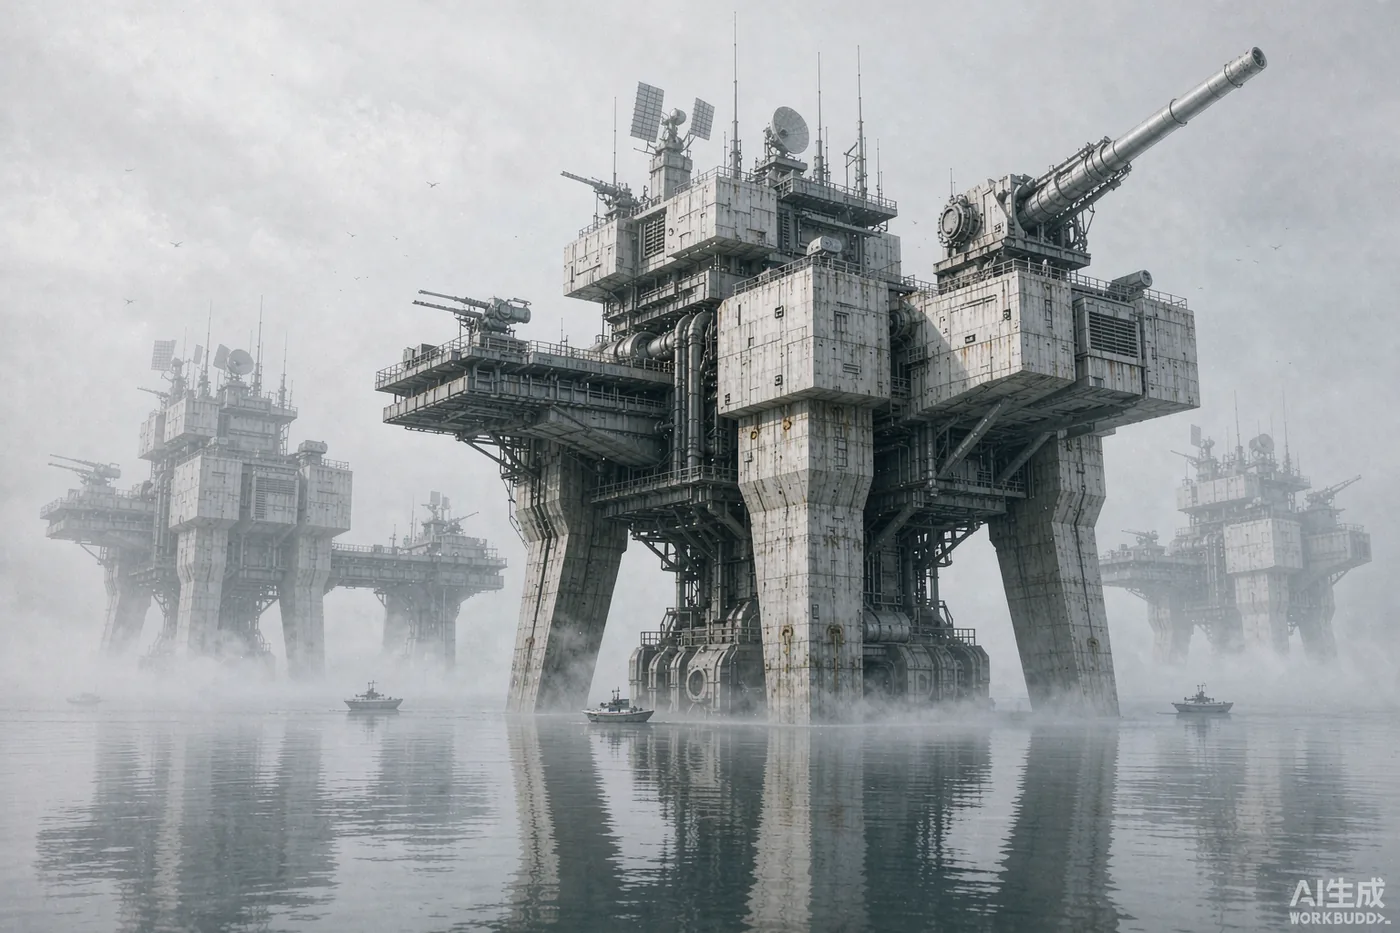
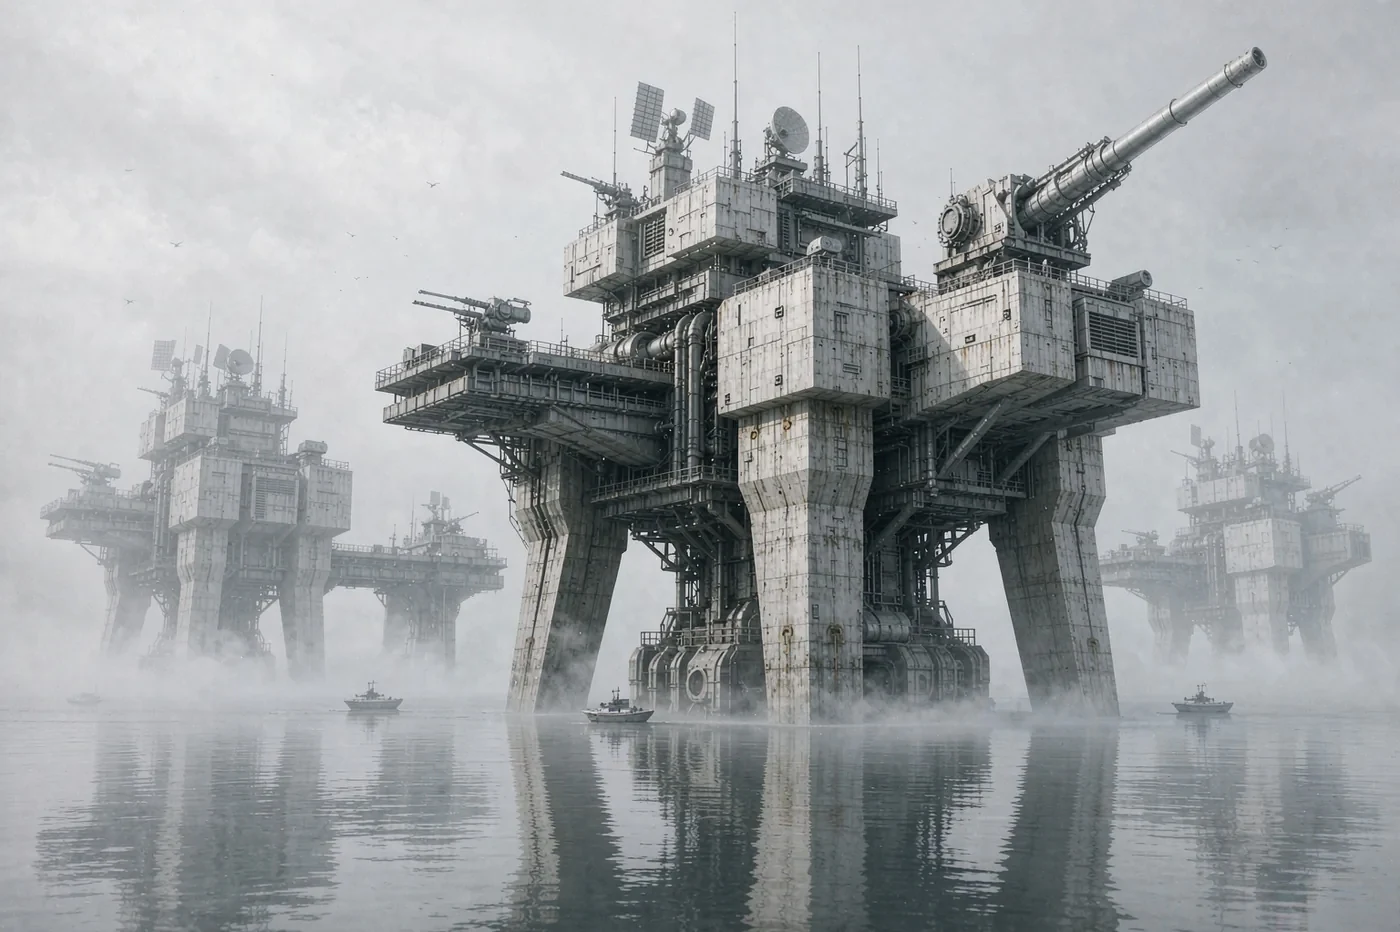
换成清理过水印的三张场景图，并压成 WebP
hero / fortress / dustsphere 三张换为新版（水印已由作者清除）。
1798 KB → 364 KB（-80%）。
三处在 HTML 里原本裸引用无版本号，补 ?v=2 以免吃 10 分钟缓存。

diff --git a/index.html b/index.html
@@ -134,7 +134,7 @@
 <!-- ═══════════════ 序章 ═══════════════ -->
 <section class="hero" id="hero">
   <div class="hero__bg">
-    <img src="assets/img/hero.webp" alt="苍茫的白色尘海与悬空的几何投影">
+    <img src="assets/img/hero.webp?v=2" alt="苍茫的白色尘海与悬空的几何投影">
   </div>
   <div class="hero__fog"></div>
   <div class="hero__trace" aria-hidden="true">
@@ -331,7 +331,7 @@
       <div class="tech__list" id="tech-list"></div>
       <aside class="tech__visual">
         <div class="tech__visual-img">
-          <img src="assets/img/dustsphere.webp" alt="尘寰模型">
+          <img src="assets/img/dustsphere.webp?v=2" alt="尘寰模型">
           <span class="tech__visual-cap">尘寰模型 · 核心与投影</span>
         </div>
         <blockquote class="tech__quote">
@@ -360,7 +360,7 @@
     <div class="fac" id="fac-list"></div>
 
     <div class="fac-feature" data-reveal>
-      <div class="fac-feature__img"><img src="assets/img/fortress.webp" alt="调查社总部：半潜式要塞群"></div>
+      <div class="fac-feature__img"><img src="assets/img/fortress.webp?v=2" alt="调查社总部：半潜式要塞群"></div>
       <div class="fac-feature__txt">
         <span class="tag">总部坐标 · 未公开</span>
         <h3>新约调查社 · 公海要塞群</h3>
